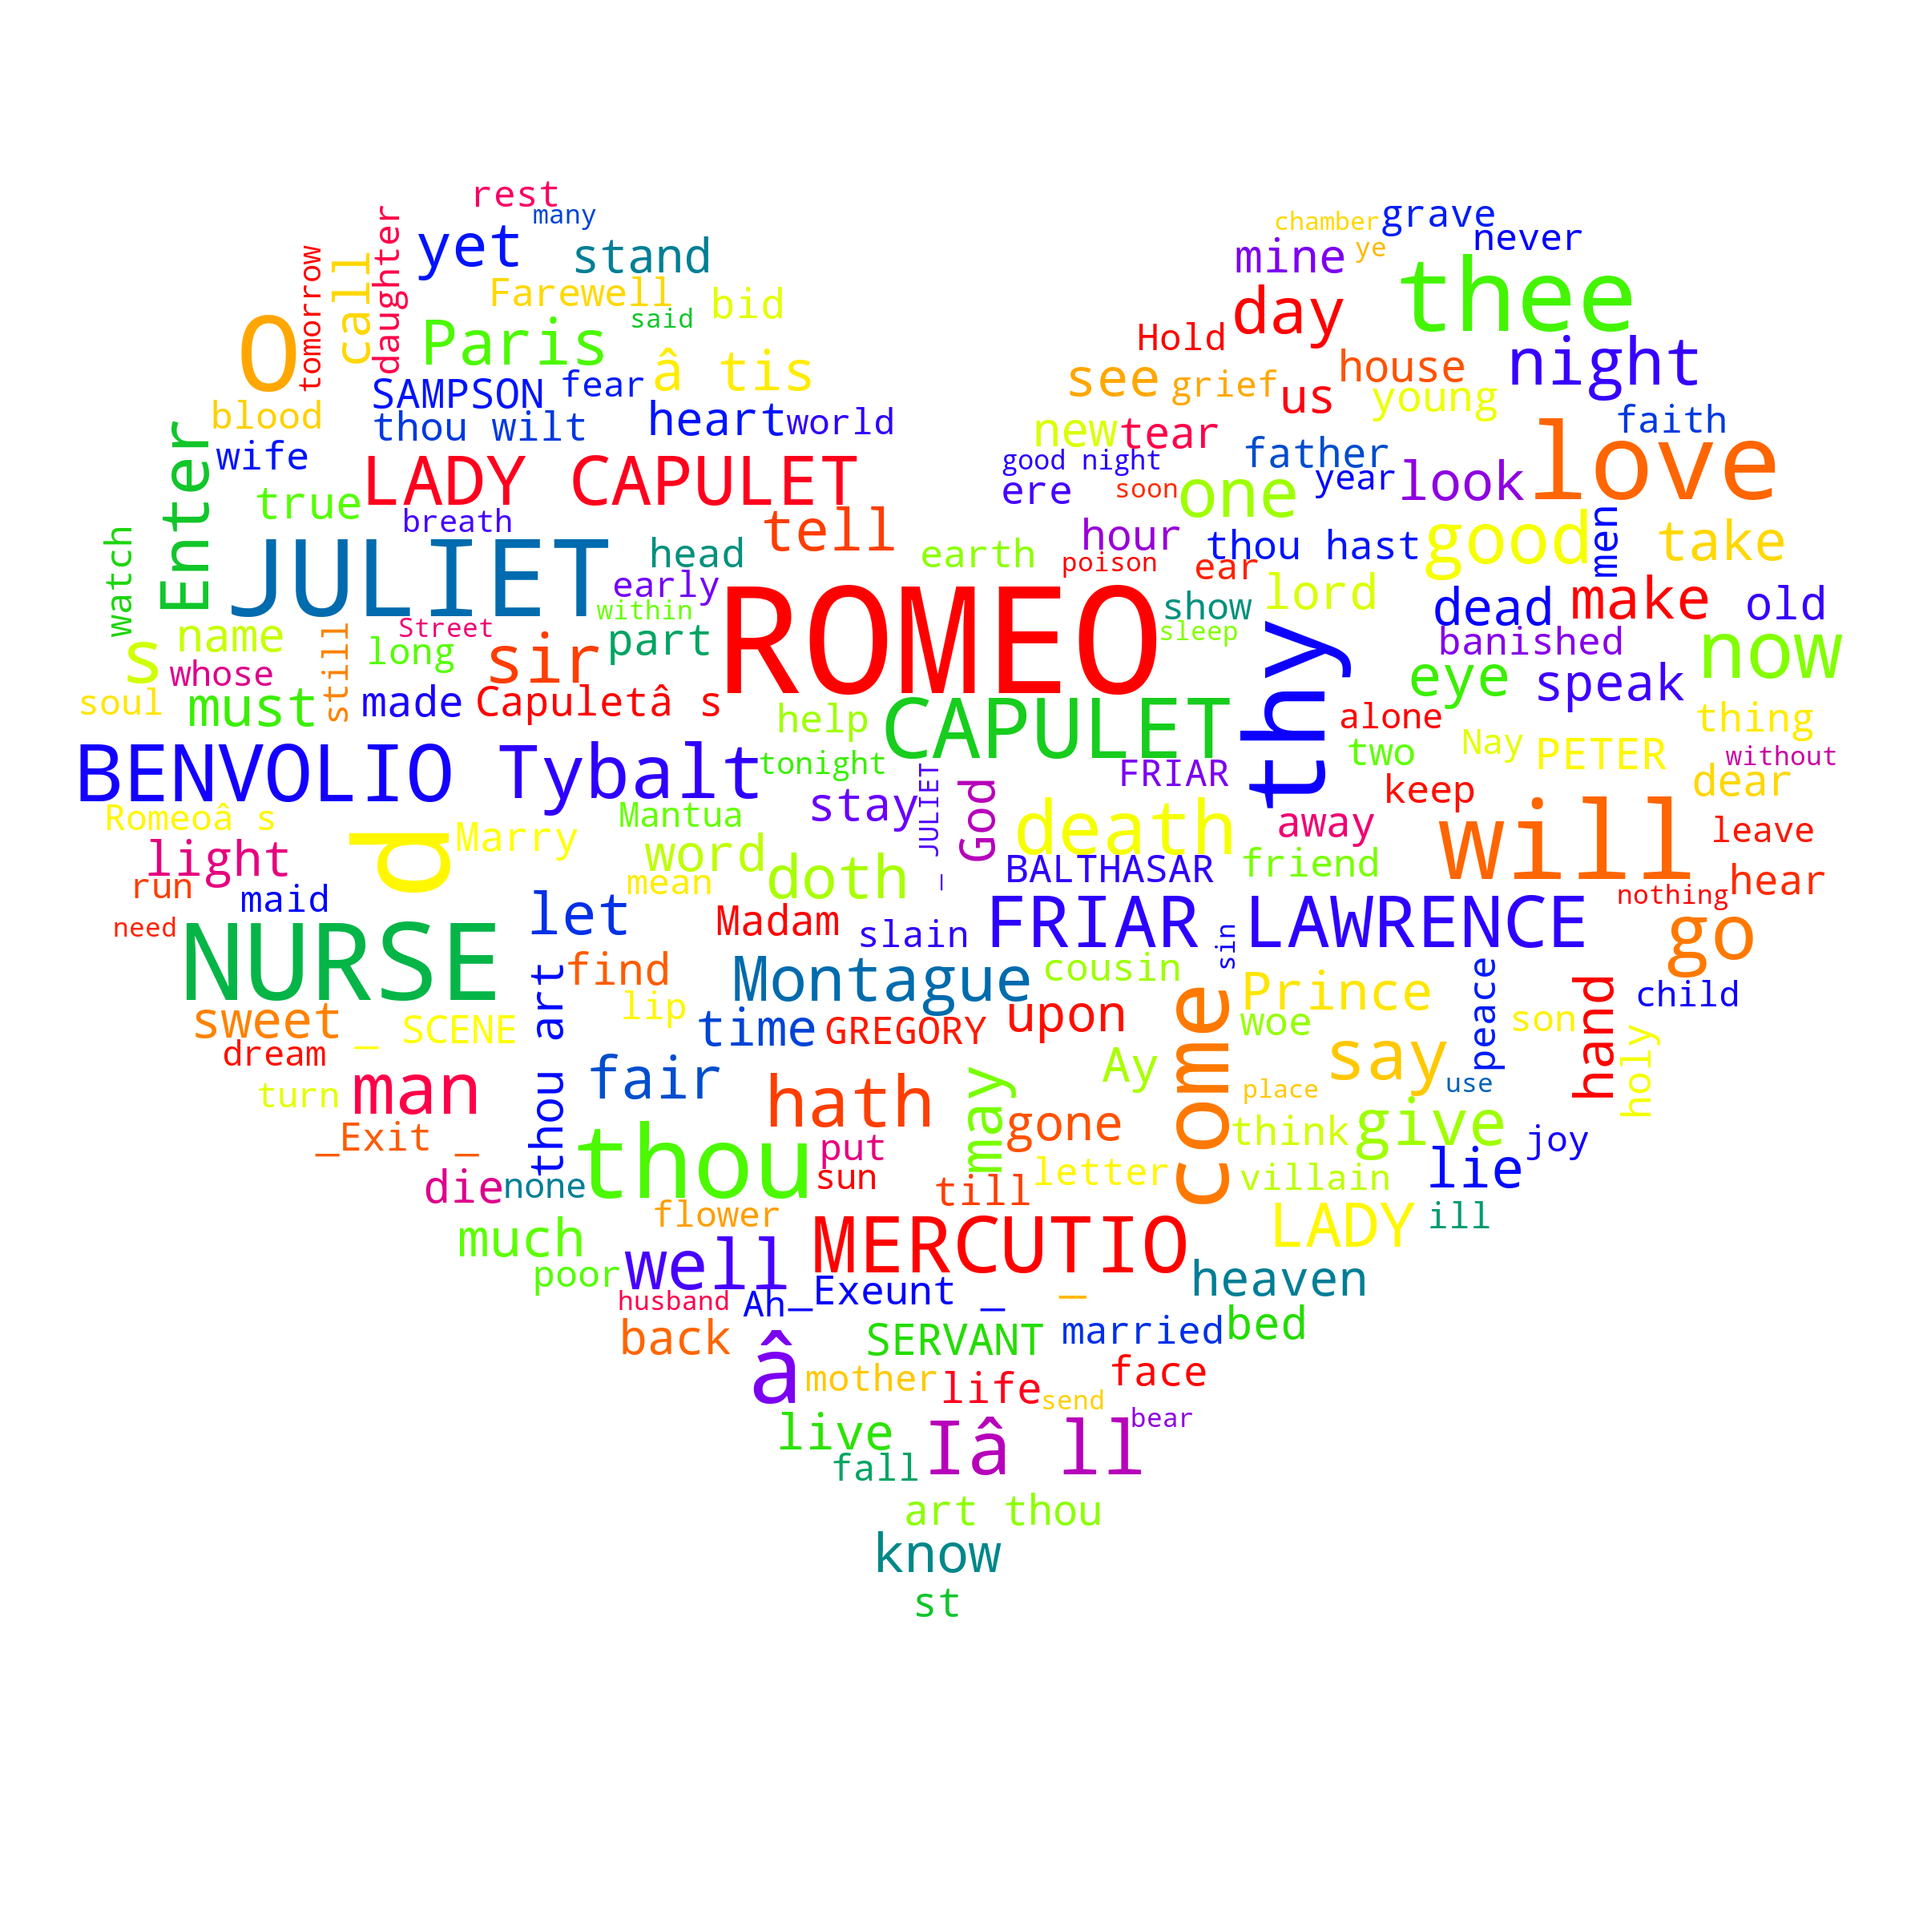
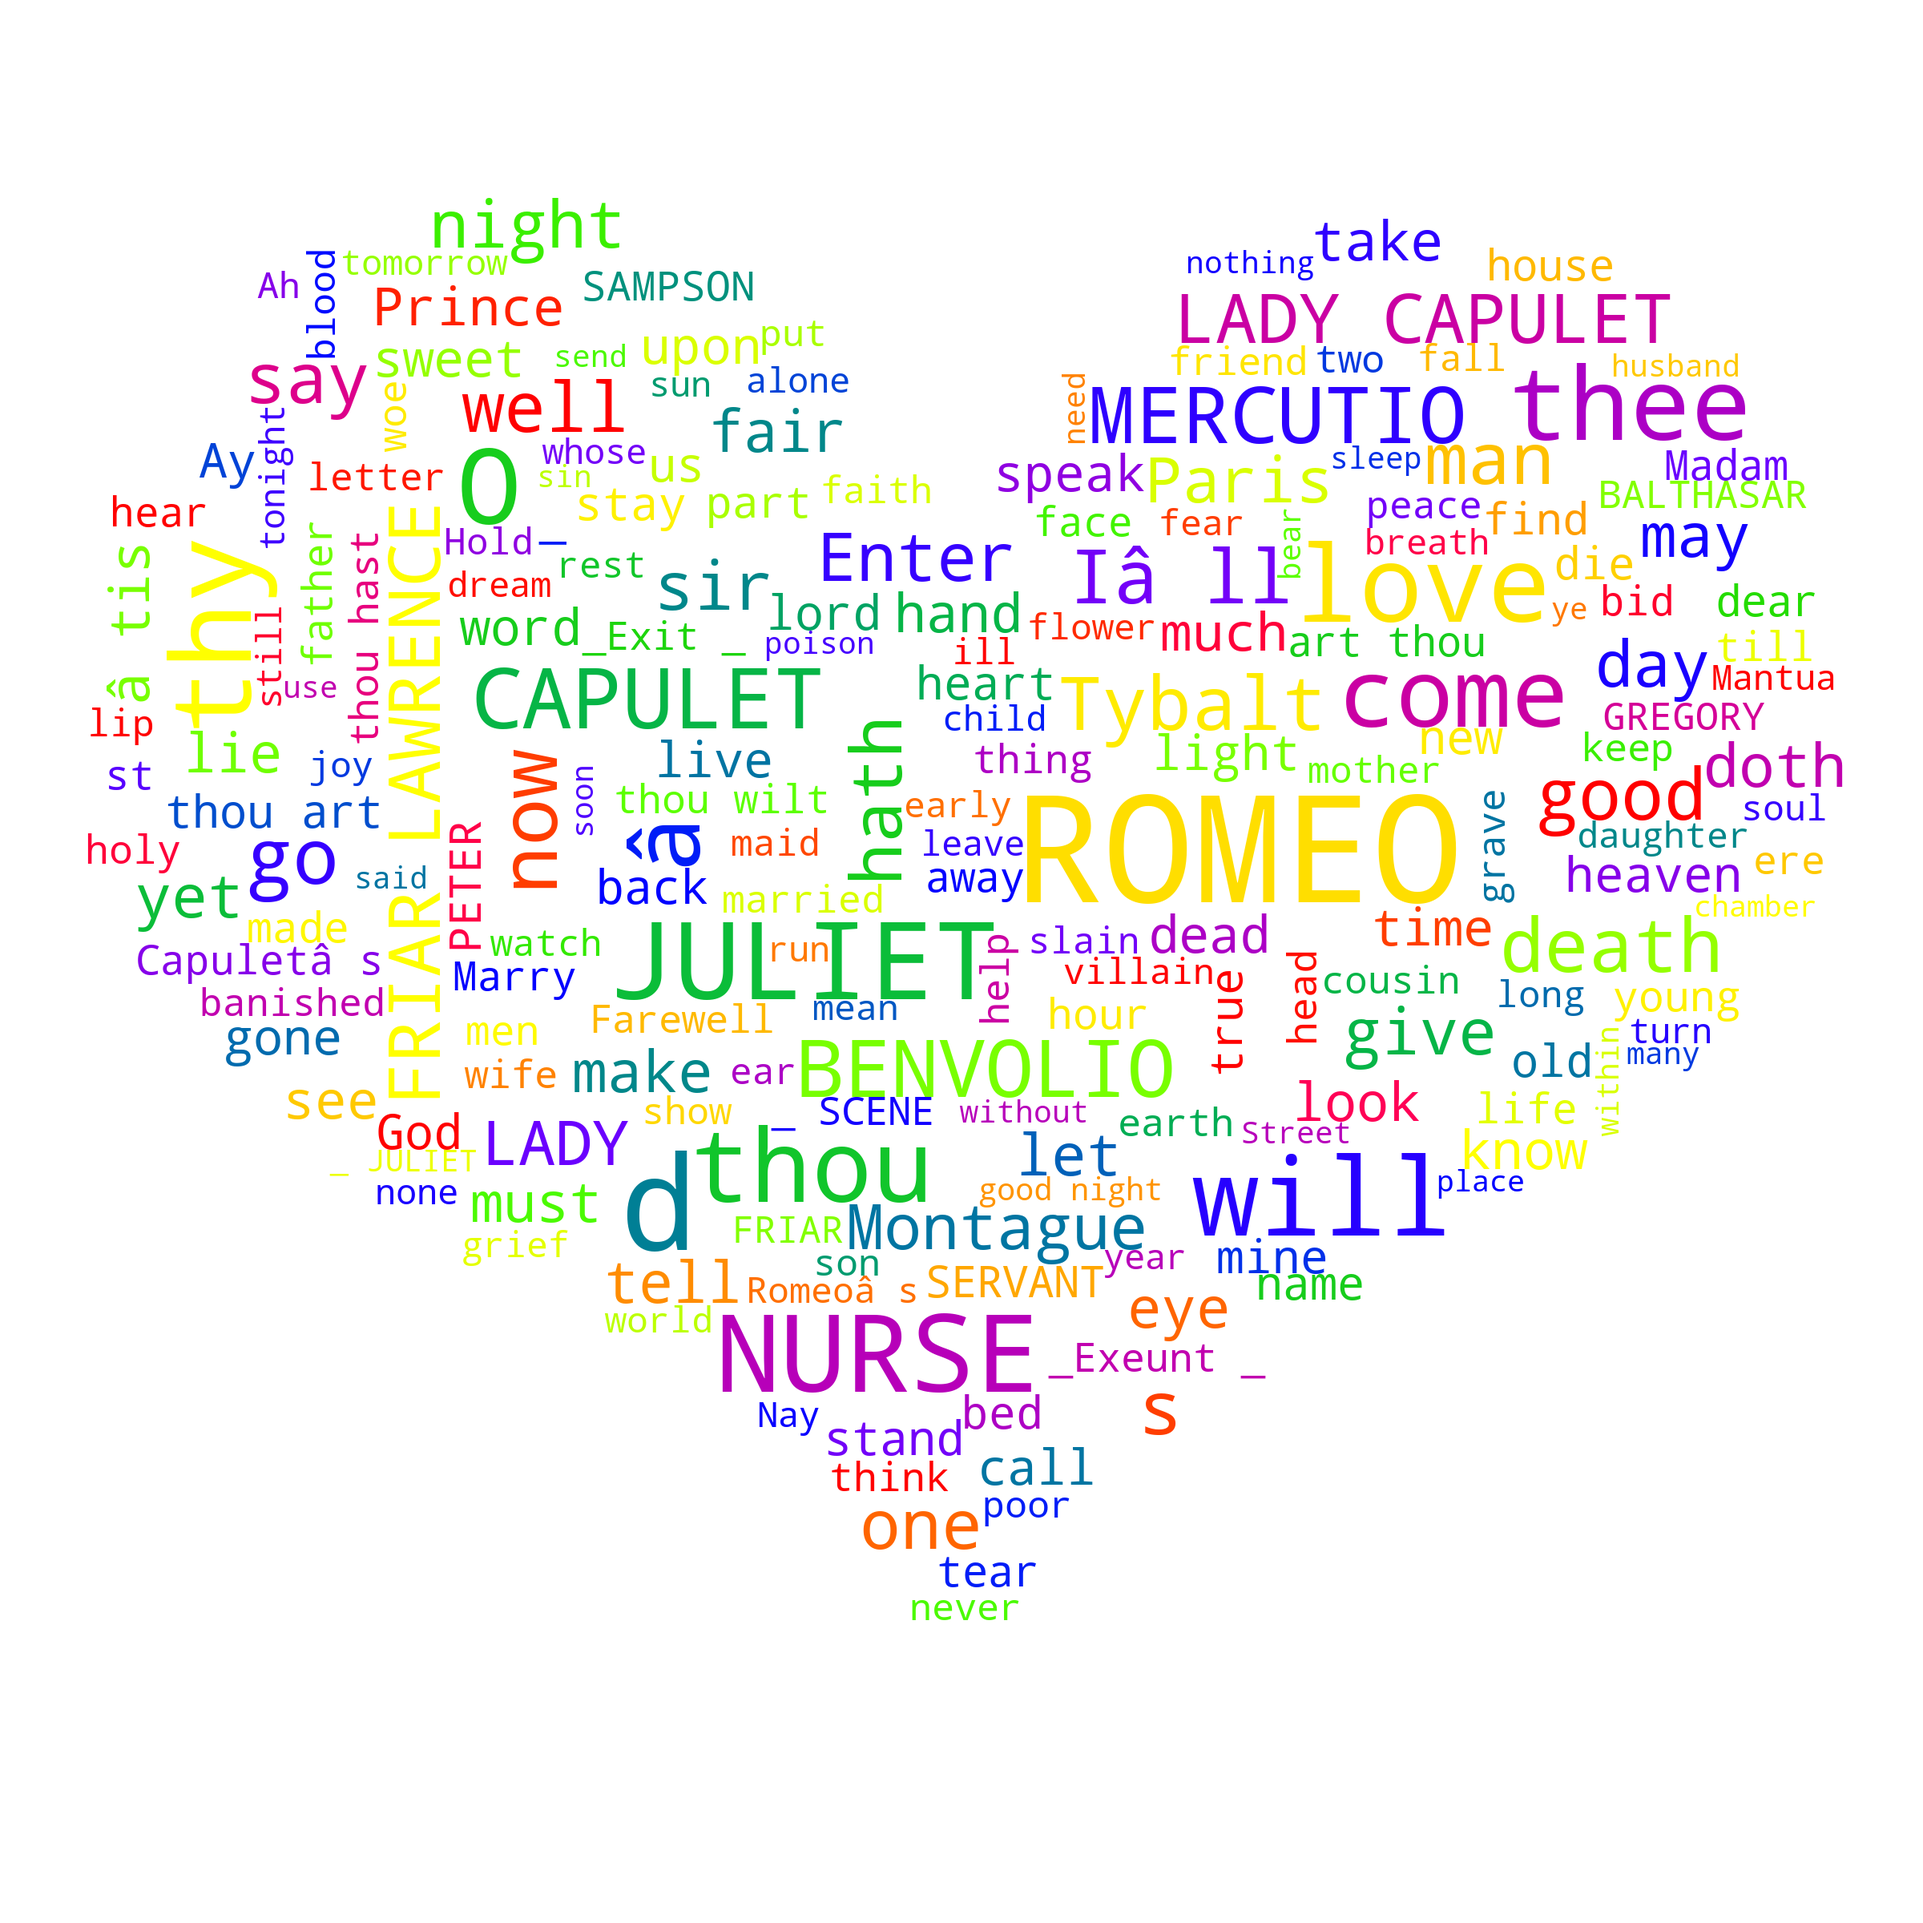
ADD NLP exercise

Changed region(s): [[0.0312, 0.0938, 0.9688, 0.8438]]

diff --git a/NLP_Exercise.py b/NLP_Exercise.py
@@ -1,0 +1,72 @@
+import nltk
+import matplotlib.pyplot as plt
+from pathlib import Path
+from nltk.corpus import stopwords
+from textblob import TextBlob
+import imageio
+from wordcloud import WordCloud
+import wordcloud
+from operator import itemgetter
+import operator
+import pandas as pd
+import spacy
+
+blob = TextBlob(Path("book of John text.txt").read_text())
+stops = stopwords.words("english")
+#print(stops)
+
+without_stopwords =[]
+more_stops= ['thy', 'ye', 'verily', 'thee', 'hath', 'say', 'thou', 'art', 'shall']
+stops += more_stops
+
+cleanlist = [word for word in blob.words if word not in stops]
+#print(cleanlist)
+
+'''
+Noun_words = []
+words_with_tag = nltk.pos_tag(without_stopwords)
+for word,pos in words_with_tag:
+    if(pos == 'NN' or pos == 'NNS' or pos=='NNP' or pos=='NNPS'):
+        Noun_words.append(word)
+wordcloud_dict ={}
+
+for word in Noun_words:
+    if word in wordcloud_dict.keys():
+        wordcloud_dict[word]+=1
+    else:
+        wordcloud_dict[word]=1
+
+sorted_dict = dict(sorted(wordcloud_dict.items(),key = operator.itemgetter(1),reverse=True))
+
+'''
+
+items = blob.word_counts.items()
+clean_items = [i for i in items if i[0] not in stops]
+#print(clean_items[:10])
+
+sorted_list = sorted(clean_items, key=itemgetter(1), reverse=True)
+#print(sorted_list[:10])
+
+top15 = sorted_list[:16]
+df = pd.DataFrame(top15, columns=["word", "count"])
+print(df)
+#print(top15)
+
+text_list = []
+for i in top15:
+    x = i[0]
+    text_list.append(x)
+
+text = ' '.join(text_list)
+mask_image = imageio.imread("mask_rectangle.png")
+
+
+
+wordcloud = WordCloud(colormap='ocean', mask=mask_image,
+                      background_color='gray')
+
+wordcloud = wordcloud.generate(text)
+
+wordcloud = wordcloud.to_file("NLP_exercise.png")
+
+print("done")
